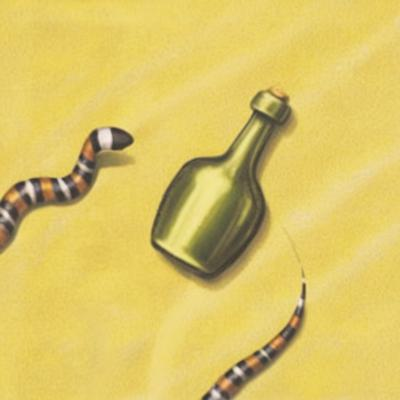
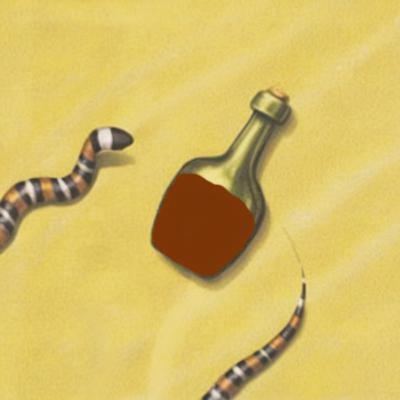
Наполнил бутылки ромом

Changed region(s): [[0.36, 0.42, 0.66, 0.69]]

diff --git a/JackalWebHost2/Services/DrawService.cs b/JackalWebHost2/Services/DrawService.cs
@@ -216,7 +216,7 @@ public class DrawService : IDrawService
                 filename = "rumbar";
                 break;
             case TileType.RumBottles:
-                filename = $"rum{tile.ArrowsCode}";
+                filename = tile.Used ? $"used_rum{tile.ArrowsCode}" : $"rum{tile.ArrowsCode}";
                 break;
             case TileType.Horse:
                 filename = "horse";
